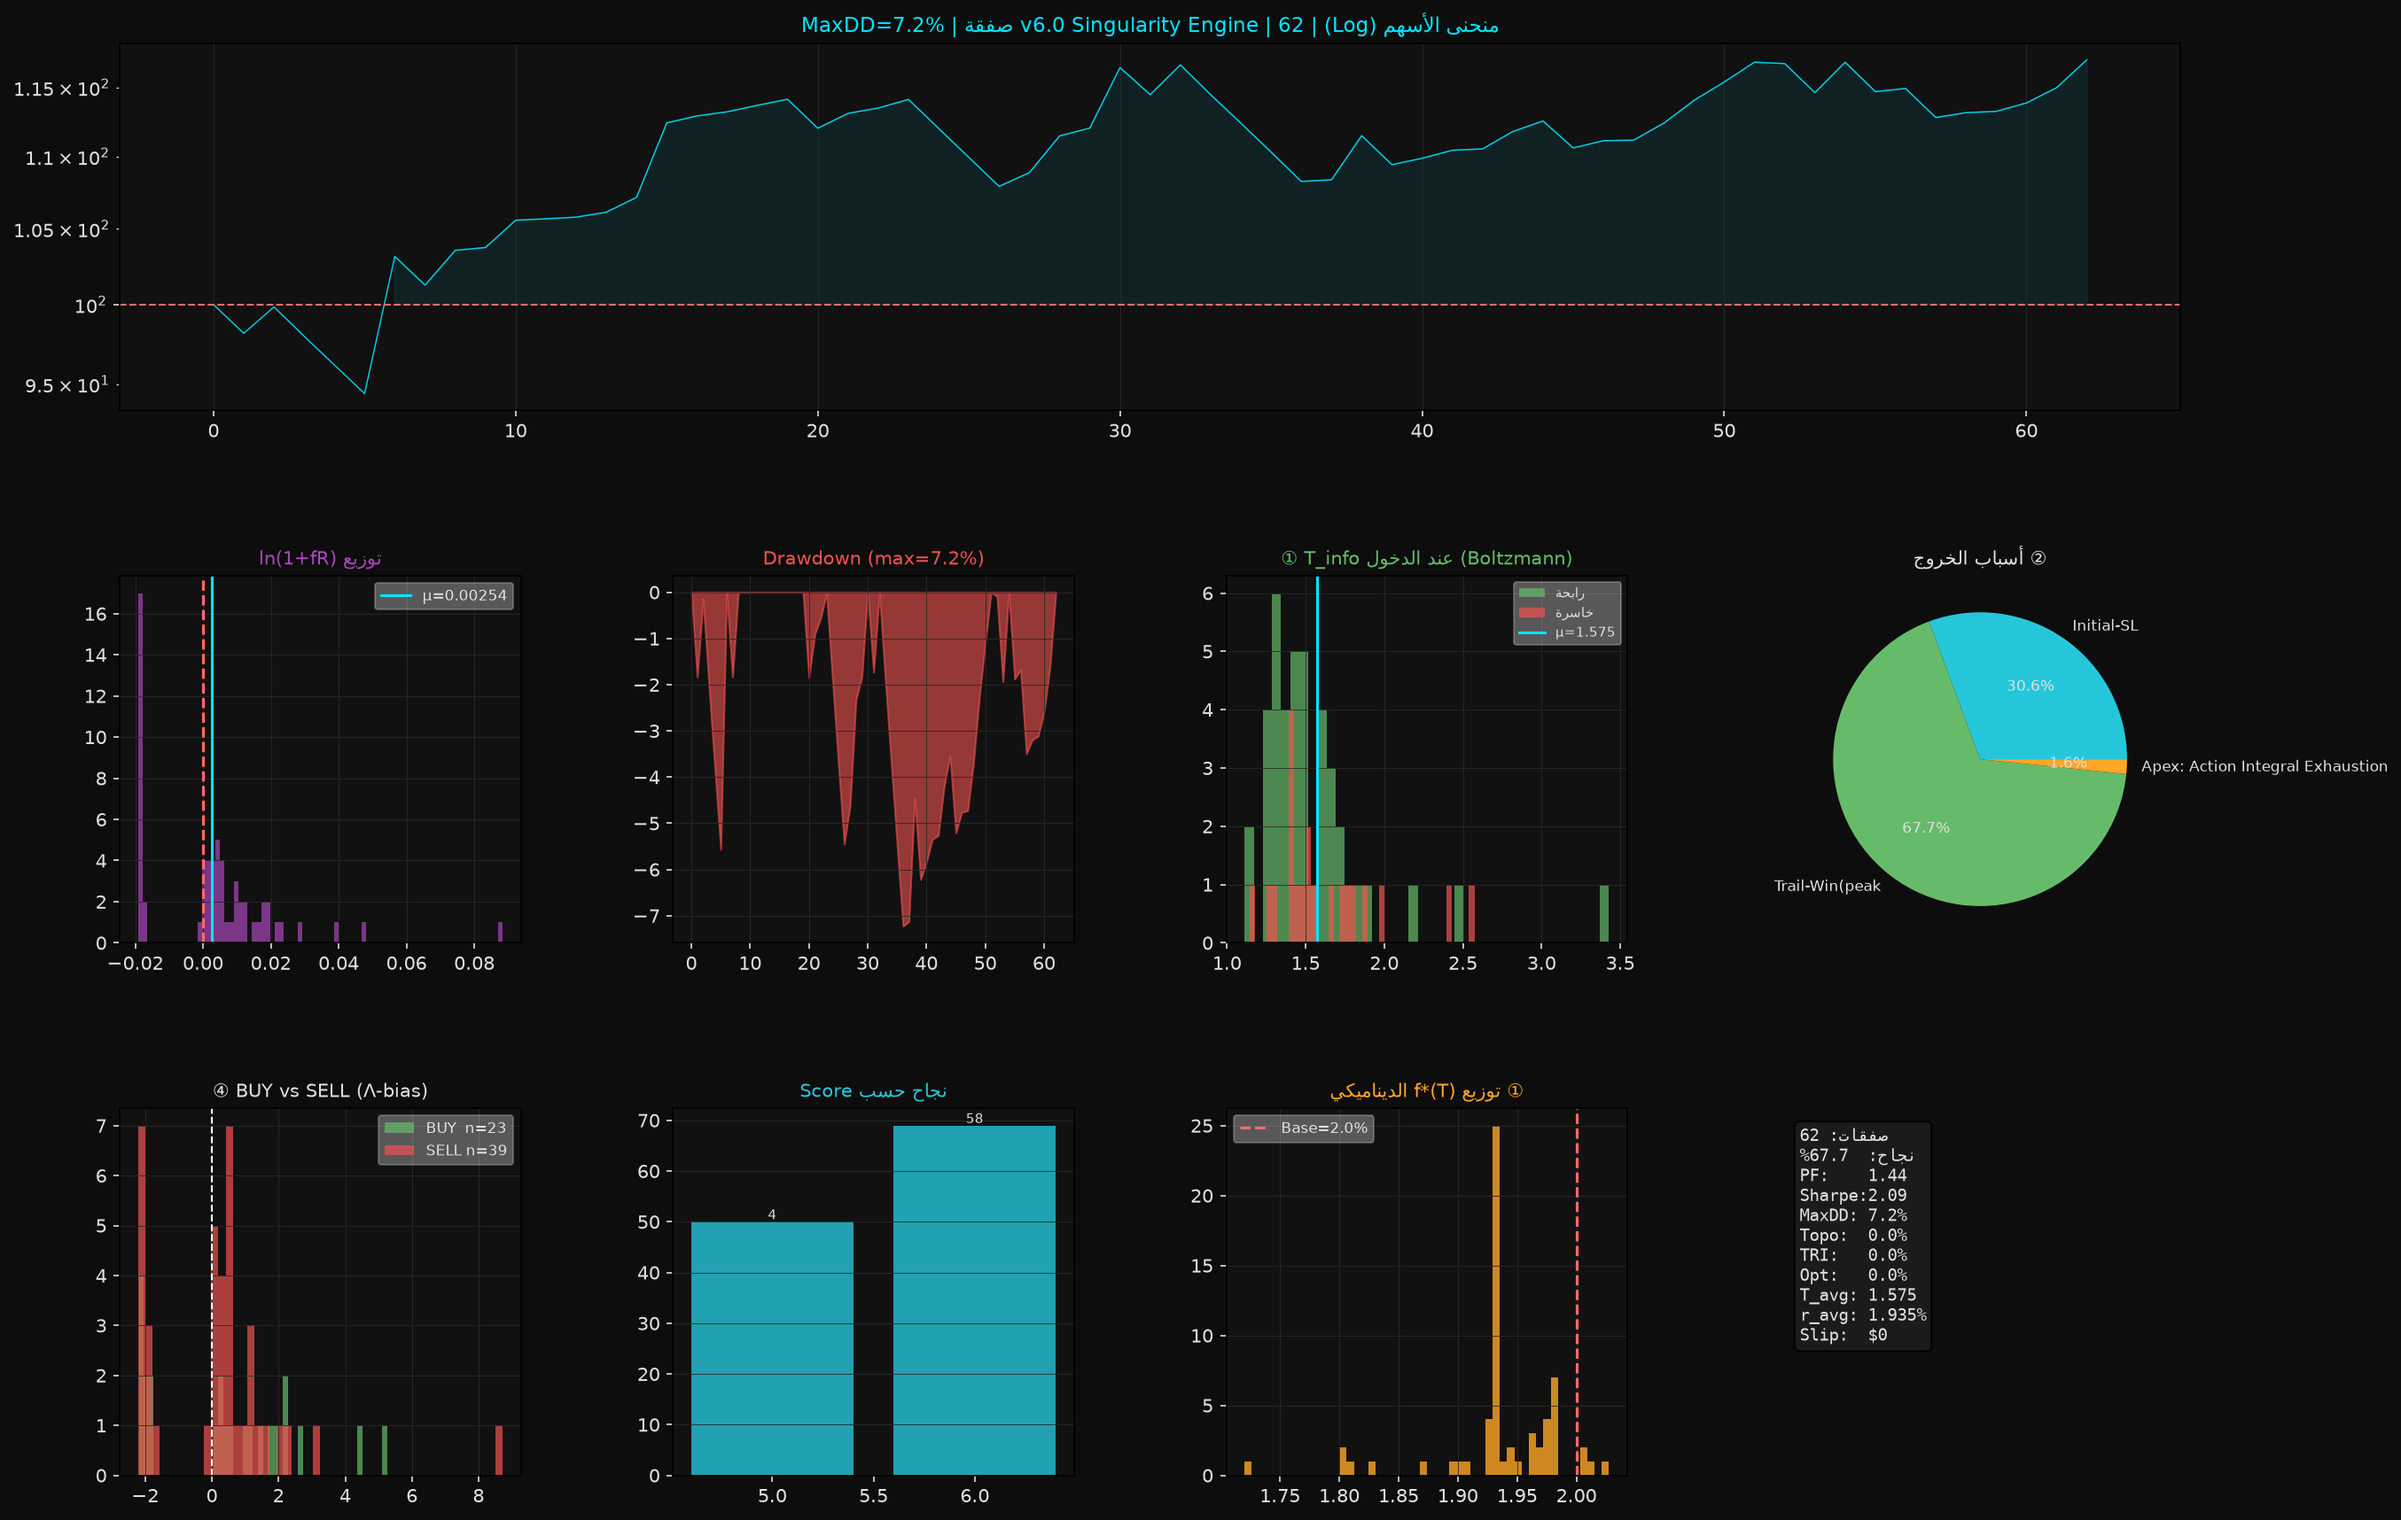
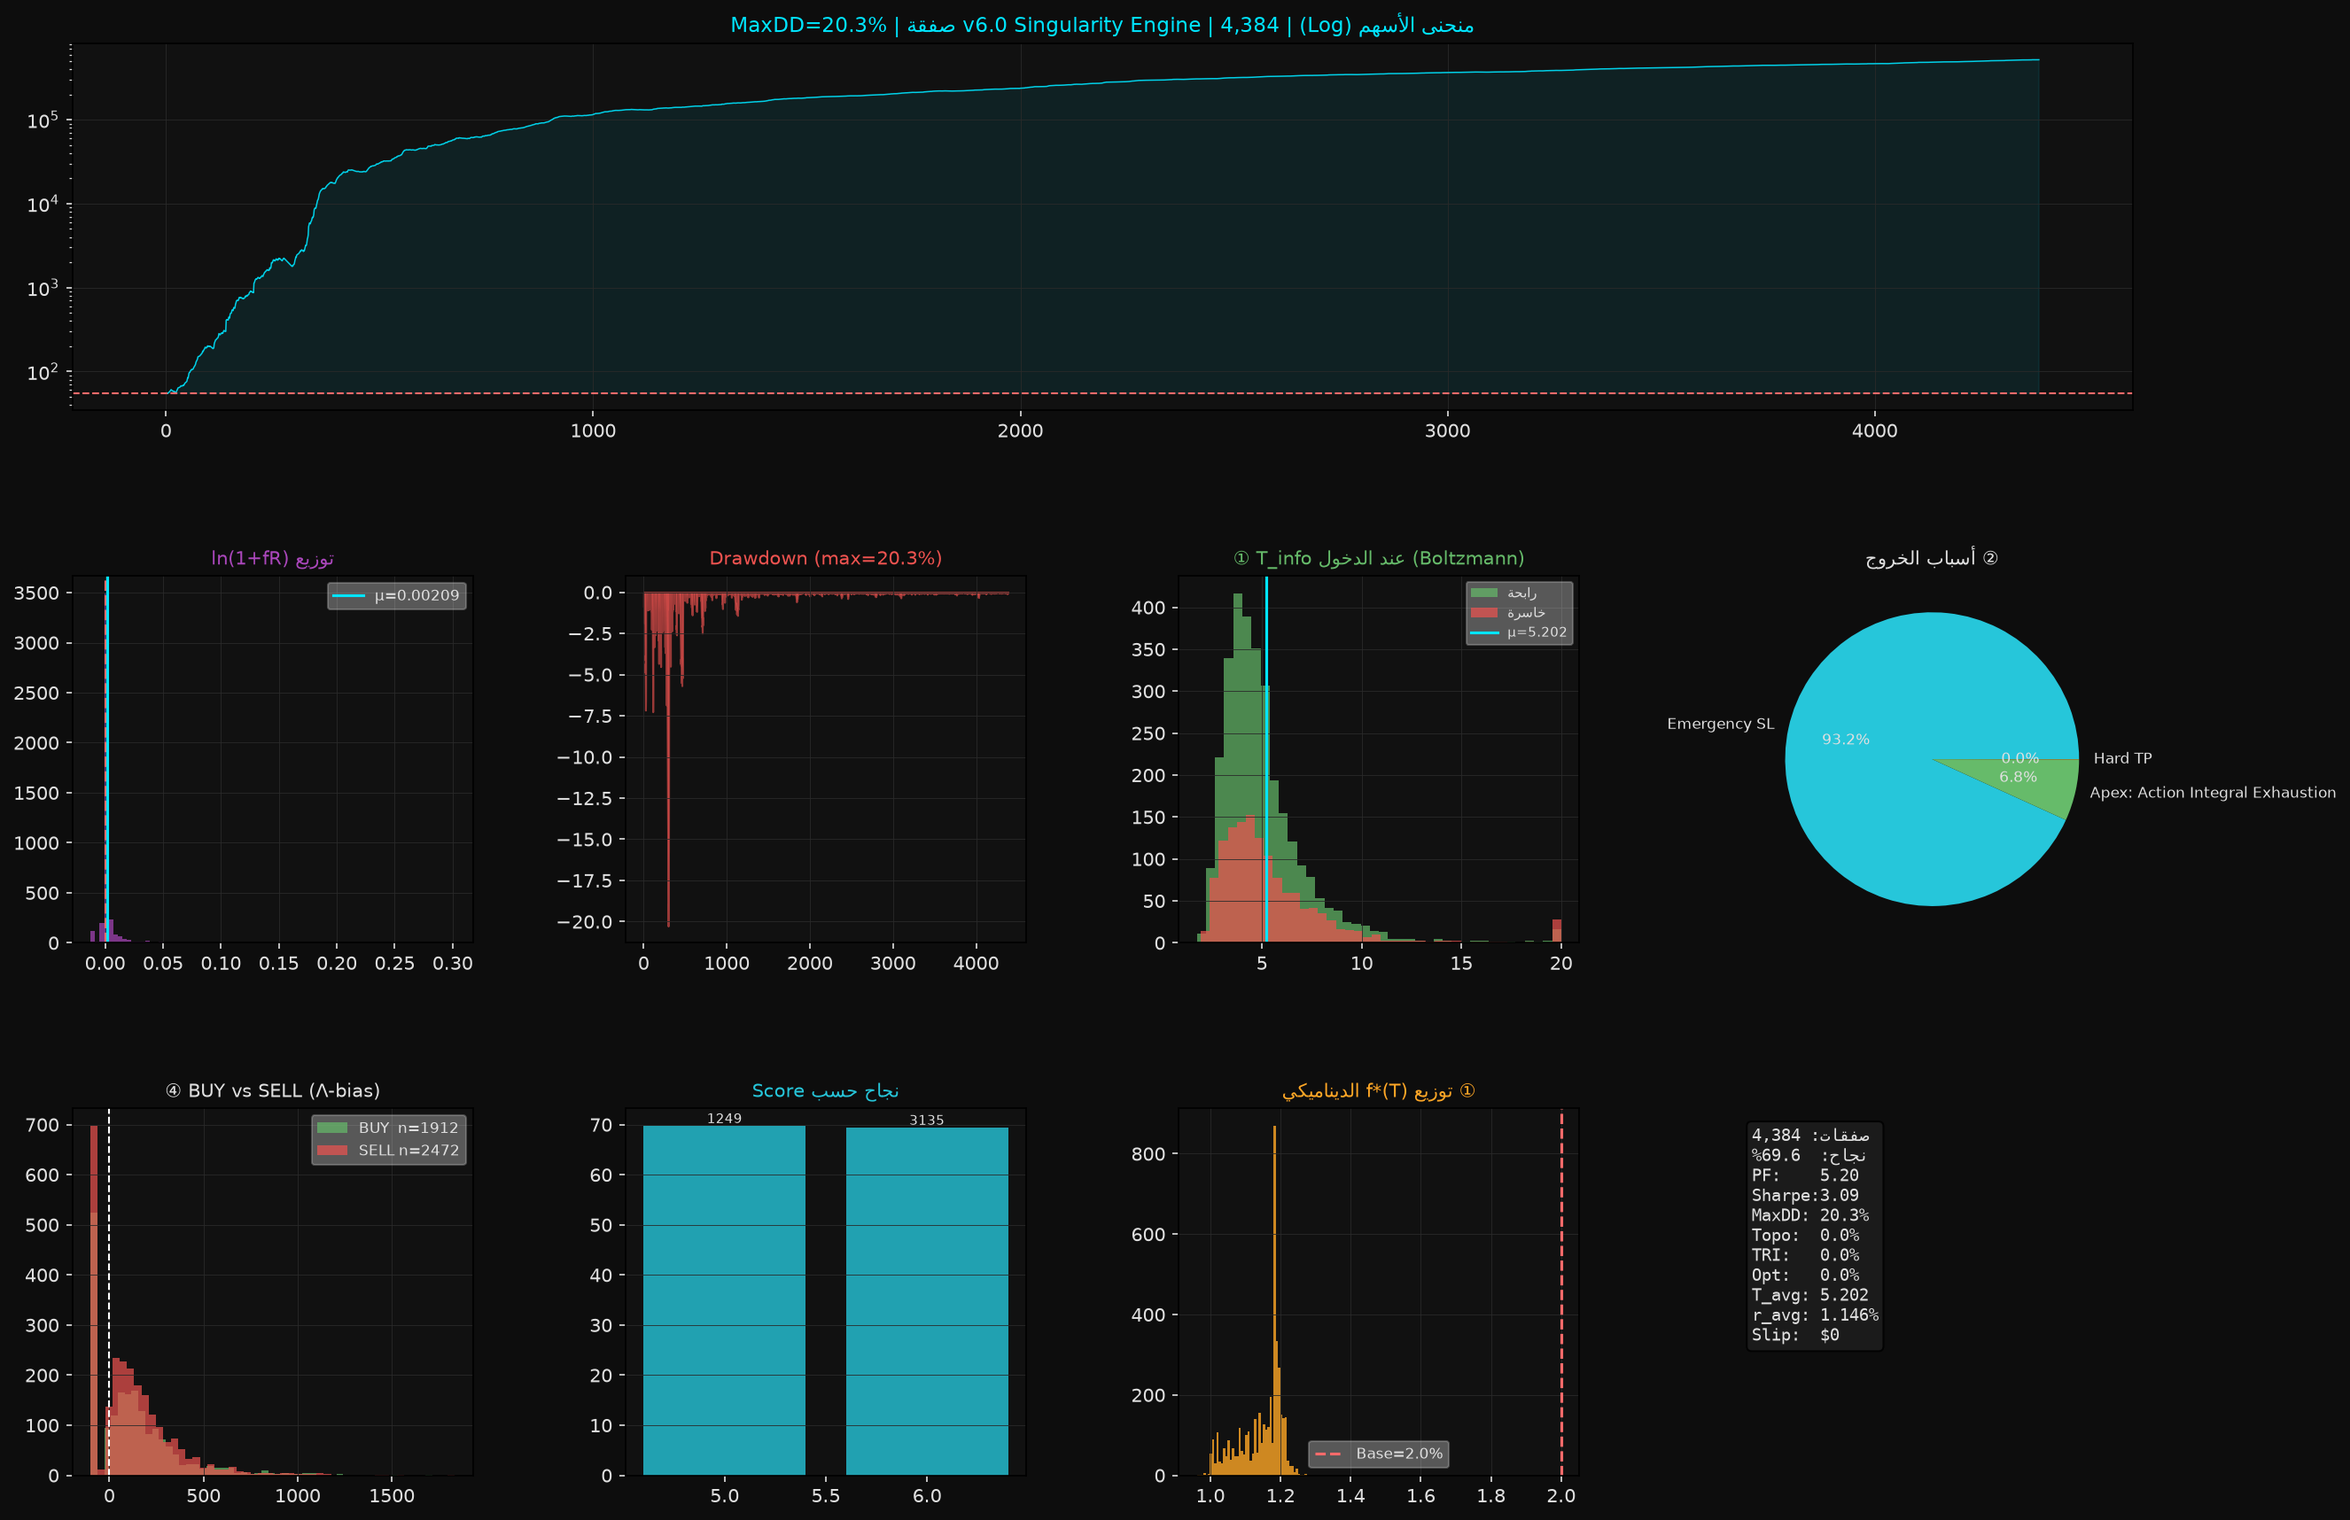
المقياس قبل بعد عدد الصفقات ? ? Sharpe ? ? MaxDD ? ? Apex exits ? تغيّر قليل (على 1h لا فرق متوقع) Diagnostic Close-and-reverse 0 0

diff --git a/trading.py b/trading.py
@@ -245,6 +245,11 @@ class Config:
     TRAIL_ACT_KAPPA: float = 0.40            # tuned to 1h timeframe
     TRAIL_ACT_MIN_FRAC: float = 0.003
     TRAIL_ACT_MAX_FRAC: float = 0.012
+    # ══ [SIGMA-SCALED APEX] ══
+    APEX_SIGMA_SCALED: bool = True
+    APEX_KAPPA_PNL: float = 0.5
+    APEX_KAPPA_ENERGY: float = 0.5
+    APEX_KAPPA_ACCEL: float = 0.3
     # ══ [RULE-BASED FILTER] ══
     RULE_FILTER_ENABLED: bool = False
     RULE_REJECT_RVOL24_PCT: float = 0.33    # reject if below this quantile
@@ -1344,18 +1349,40 @@ def build_signals(assets, mode="backtest"):
     sigs.sort(key=lambda s: (s.timestamp, -s.score))
     return sigs
 
-
 def deduplicate_signals(sigs):
-    """dedup per (symbol, hour) - محفوظ من v5"""
+    """
+    TF-aware dedup: groups signals by (symbol, time bucket).
+    The bucket is derived from CFG.TF_SECONDS so 1m/5m/1h all work correctly.
+    """
+    if not sigs:
+        return sigs
+
+    # Determine bucket label from TF_SECONDS
+    tf_sec = CFG.TF_SECONDS if CFG.TF_SECONDS > 0 else 3600
+    if tf_sec <= 60:
+        bucket = '1m'
+    elif tf_sec <= 300:
+        bucket = '5m'
+    elif tf_sec <= 900:
+        bucket = '15m'
+    elif tf_sec <= 3600:
+        bucket = '1h'
+    elif tf_sec <= 14400:
+        bucket = '4h'
+    else:
+        bucket = '1d'
+
     groups = defaultdict(list)
     for s in sigs:
-        key = (s.symbol, s.timestamp.floor('1h'))
+        key = (s.symbol, s.timestamp.floor(bucket))
         groups[key].append(s)
+
     result = []
     for _, grp in groups.items():
-        result.append(max(grp, key=lambda s:(s.score, s.lam)))
+        result.append(max(grp, key=lambda s: (s.score, s.lam)))
     result.sort(key=lambda s: s.timestamp)
     return result
+
 
 
 # ════════════════════════════════════════════════════════════════
@@ -3416,9 +3443,23 @@ def execute_post_only(exchange, symbol: str, side: str, qty: float,
                 continue
 
             # 2. Target
+            # Defensive: if PO_FIXED_PRICE is True but caller didn't pass
+            # fixed_target, lock the FIRST observed target and never chase.
             _fixed = (fixed_target is not None and fixed_target > 0)
             if _fixed:
                 target = float(fixed_target)
+            elif getattr(CFG, 'PO_FIXED_PRICE', False):
+                # Lock target on first iteration
+                if not hasattr(execute_post_only, '_locked_target'):
+                    execute_post_only._locked_target = {}
+                lock_key = f"{symbol}:{side}"
+                if lock_key not in execute_post_only._locked_target:
+                    execute_post_only._locked_target[lock_key] = (
+                        last_bid * (1.0 - pen) if side == 'buy'
+                        else last_ask * (1.0 + pen)
+                    )
+                target = execute_post_only._locked_target[lock_key]
+                _fixed = True
             else:
                 target = (last_bid * (1.0 - pen)) if side == 'buy' \
                          else (last_ask * (1.0 + pen))
@@ -3767,7 +3808,7 @@ class AdaptiveFillEngine:
     def _execute_taker(self, side: str, qty: float):
         try:
             o = self.exchange.create_order(self.symbol, 'market', side, qty)
-            v = verify_fill_sync(self.exchange, o['id'], self.symbol, timeout_s=3.0)
+            v = verify_fill_sync(self.exchange, o['id'], self.symbol, timeout_s=1.5)
             if v['filled']:
                 return {'filled_qty': v['qty'], 'avg_price': v['price'],
                         'fill_rate': 1.0, 'mode': 'taker'}
@@ -3954,28 +3995,55 @@ def _get_fill_engine(exchange, symbol: str) -> AdaptiveFillEngine:
 
 def check_thermodynamic_apex(pos_action, entry_price, current_price, ad, fi):
     """
-    الطور الخامس: مستشعر الأوج بالتكامل الحركي (Action Integral).
-    يقيس معدل الاستهلاك الطاقي الإجمالي وتراجع القصور الذاتي لتفادي تكميم الزمكان المنفصل.
-    """
-    if fi < 3: return False, "" # نحتاج تاريخاً تراكمياً لاحتساب الفعل
-    
-    pnl = (current_price - entry_price)/entry_price if pos_action == "BUY" else (entry_price - current_price)/entry_price
-    if pnl < 0.005: return False, "" # حماية القصور الذاتي التراكمي (الحد الأدنى للربح)
+    مستشعر الأوج — σ-scaled thresholds when APEX_SIGMA_SCALED=True.
 
-    # حساب تكامل الفعل لتغير الطاقة الحرة لآخر 3 خطوات
-    dF_window = ad.dF[fi-2:fi+1]
+    Thresholds:
+      - min_pnl:      κ_pnl × σ_bar  (default κ_pnl = 0.5)
+      - energy_thr:   κ_e × σ_bar    (default κ_e = 0.5)
+      - accel_thr:    κ_a × σ_bar    (default κ_a = 0.3)
+
+    Falls back to absolute values (0.005, 0.005, 0.003) when flag is off.
+    """
+    if fi < 3:
+        return False, ""
+
+    # ── σ-scaled base ──
+    try:
+        sigma = float(ad.E_therm[fi]) if fi < len(ad.E_therm) else 0.01
+        if not np.isfinite(sigma) or sigma <= 1e-6:
+            sigma = 0.01
+    except Exception:
+        sigma = 0.01
+
+    if getattr(CFG, 'APEX_SIGMA_SCALED', True):
+        KAPPA_PNL = float(getattr(CFG, 'APEX_KAPPA_PNL', 0.5))
+        KAPPA_E   = float(getattr(CFG, 'APEX_KAPPA_ENERGY', 0.5))
+        KAPPA_A   = float(getattr(CFG, 'APEX_KAPPA_ACCEL', 0.3))
+        min_pnl    = KAPPA_PNL * sigma
+        energy_thr = KAPPA_E   * sigma
+        accel_thr  = KAPPA_A   * sigma
+    else:
+        min_pnl    = 0.005
+        energy_thr = 0.005
+        accel_thr  = 0.003
+
+    pnl = ((current_price - entry_price) / entry_price
+           if pos_action == "BUY"
+           else (entry_price - current_price) / entry_price)
+    if pnl < min_pnl:
+        return False, ""
+
+    dF_window = ad.dF[fi - 2:fi + 1]
     sum_dF = np.sum(dF_window)
-    
-    # حساب القصور الذاتي المتوسط للتسارع الجيوديسي لآخر 3 خطوات
-    accel_window = ad.geodesic_accel[fi-2:fi+1]
+
+    accel_window = ad.geodesic_accel[fi - 2:fi + 1]
     accel_mean = np.mean(accel_window)
 
-    # الشرط: الفعل التراكمي يثبت تراجع الزخم (استقرار طاقي)
-    energy_exhausted = (sum_dF > 0.005)
+    energy_exhausted = (sum_dF > energy_thr)
 
-    if pos_action == "BUY" and energy_exhausted and accel_mean < 0.003:
+    if pos_action == "BUY" and energy_exhausted and accel_mean < accel_thr:
         return True, "Apex: Action Integral Exhaustion"
-    if pos_action == "SELL" and energy_exhausted and accel_mean > -0.003:
+    if pos_action == "SELL" and energy_exhausted and accel_mean > -accel_thr:
         return True, "Apex: Action Integral Exhaustion"
 
     return False, ""
@@ -4788,8 +4856,21 @@ def run_live(cfg, exchange):
     log.info("⏳ جلب الزمكان المالي التاريخي (هذه العملية تحدث مرة واحدة فقط)...")
     top_syms = scan_top_assets(exchange)
     cached_data = fetch_all(top_syms, exchange, cfg.timeframe, days=60, workers=5)
+
+    # ══ [HELD SYMBOLS] Ensure open positions are always tracked ══
+    _held = list(open_pos_live.keys())
+    _missing = [s for s in _held if s not in top_syms]
+    if _missing:
+        log.info(f"[State] {len(_missing)} held symbols not in universe — adding")
+        top_syms = list(top_syms) + _missing
+        _extra_data = fetch_all(_missing, exchange, cfg.timeframe, days=60, workers=3)
+        cached_data.update(_extra_data)
+        log.info(f"[State] Added: {_missing}")
+
     last_scan_time = time.time()
     peak_cap_live = cfg.INITIAL_CAPITAL    
+    # ══ [Cap persistence] last known good cap_live ══
+    _last_known_cap = float(cfg.INITIAL_CAPITAL)
     if not cached_data:
         log.error("فشل في تحميل التاريخ الأولي، تأكد من الاتصال بالأنترنت.")
         return
@@ -4812,16 +4893,27 @@ def run_live(cfg, exchange):
             # تحديث دوري لقائمة الأزواج لتجنب جمود السيولة
             if time.time() - last_scan_time > 4 * 3600:
                 log.info("🔄 تحديث قائمة الأصول ومزامنة التاريخ العميق...")
-                top_syms = scan_top_assets(exchange)
-                cached_data = fetch_all(top_syms, exchange, cfg.timeframe, days=60, workers=5)
+                _new_syms = scan_top_assets(exchange)
+                # Preserve held symbols
+                _held_now = list(open_pos_live.keys())
+                _add_back = [s for s in _held_now if s not in _new_syms]
+                if _add_back:
+                    log.info(f"[State] Preserving {len(_add_back)} held symbols: {_add_back}")
+                    _new_syms = list(_new_syms) + _add_back
+                top_syms = _new_syms
+                cached_data = fetch_all(top_syms, exchange, cfg.timeframe,
+                                        days=60, workers=5)
                 last_scan_time = time.time()
                 corr_cache.clear()
 
             try:
                 bal = exchange.fetch_balance()
                 cap_live = float(bal['USDT']['free'])
-            except: 
-                cap_live = cfg.INITIAL_CAPITAL
+                _last_known_cap = cap_live
+            except Exception as e:
+                log.warning(f"[Balance] fetch failed ({e}); using last known "
+                            f"${_last_known_cap:.2f}")
+                cap_live = _last_known_cap
 
             peak_cap_live = max(peak_cap_live, cap_live)
             if int(time.time() / 60) % 5 == 0:  # once per 5 minutes
@@ -4971,7 +5063,7 @@ def run_live(cfg, exchange):
                         # Emergency → market directly
                         try:
                             o = exchange.create_order(sym, 'market', s, pos['qty'])
-                            v = verify_fill(exchange, o['id'], sym, timeout_s=3.0)
+                            v = verify_fill(exchange, o['id'], sym, timeout_s=1.5)
                             exec_price = v['avg_price'] if v and v['filled'] else price
                             exit_reason = f"{rsn} (market)"
                         except Exception as e:
@@ -5145,9 +5237,18 @@ def run_live(cfg, exchange):
                                 log.debug(f"[Pending] cap reached, skipping {sym}")
                                 continue
 
+                            # ══ [Parity] Entry timeout = bars × bar-duration ══
+                            _tf_sec_w = CFG.TF_SECONDS if CFG.TF_SECONDS > 0 else 3600
+                            _bars_wait = int(effective_bars(CFG.FILL_ENTRY_MAX_WAIT_BARS))
+                            _timeout_s = float(_bars_wait * _tf_sec_w)
+                            # Optional hard cap from PO_MAX_WAIT_S if > 0
+                            _cap = float(getattr(CFG, 'PO_MAX_WAIT_S', 0))
+                            if _cap > 0:
+                                _timeout_s = min(_timeout_s, _cap)
+
                             rec = place_pending_entry(
                                 exchange, sym, sd, qty, sig,
-                                timeout_s=float(CFG.PO_MAX_WAIT_S),
+                                timeout_s=_timeout_s,
                                 leverage=int(dynamic_leverage),
                                 ad=assets[sym],
                             )
